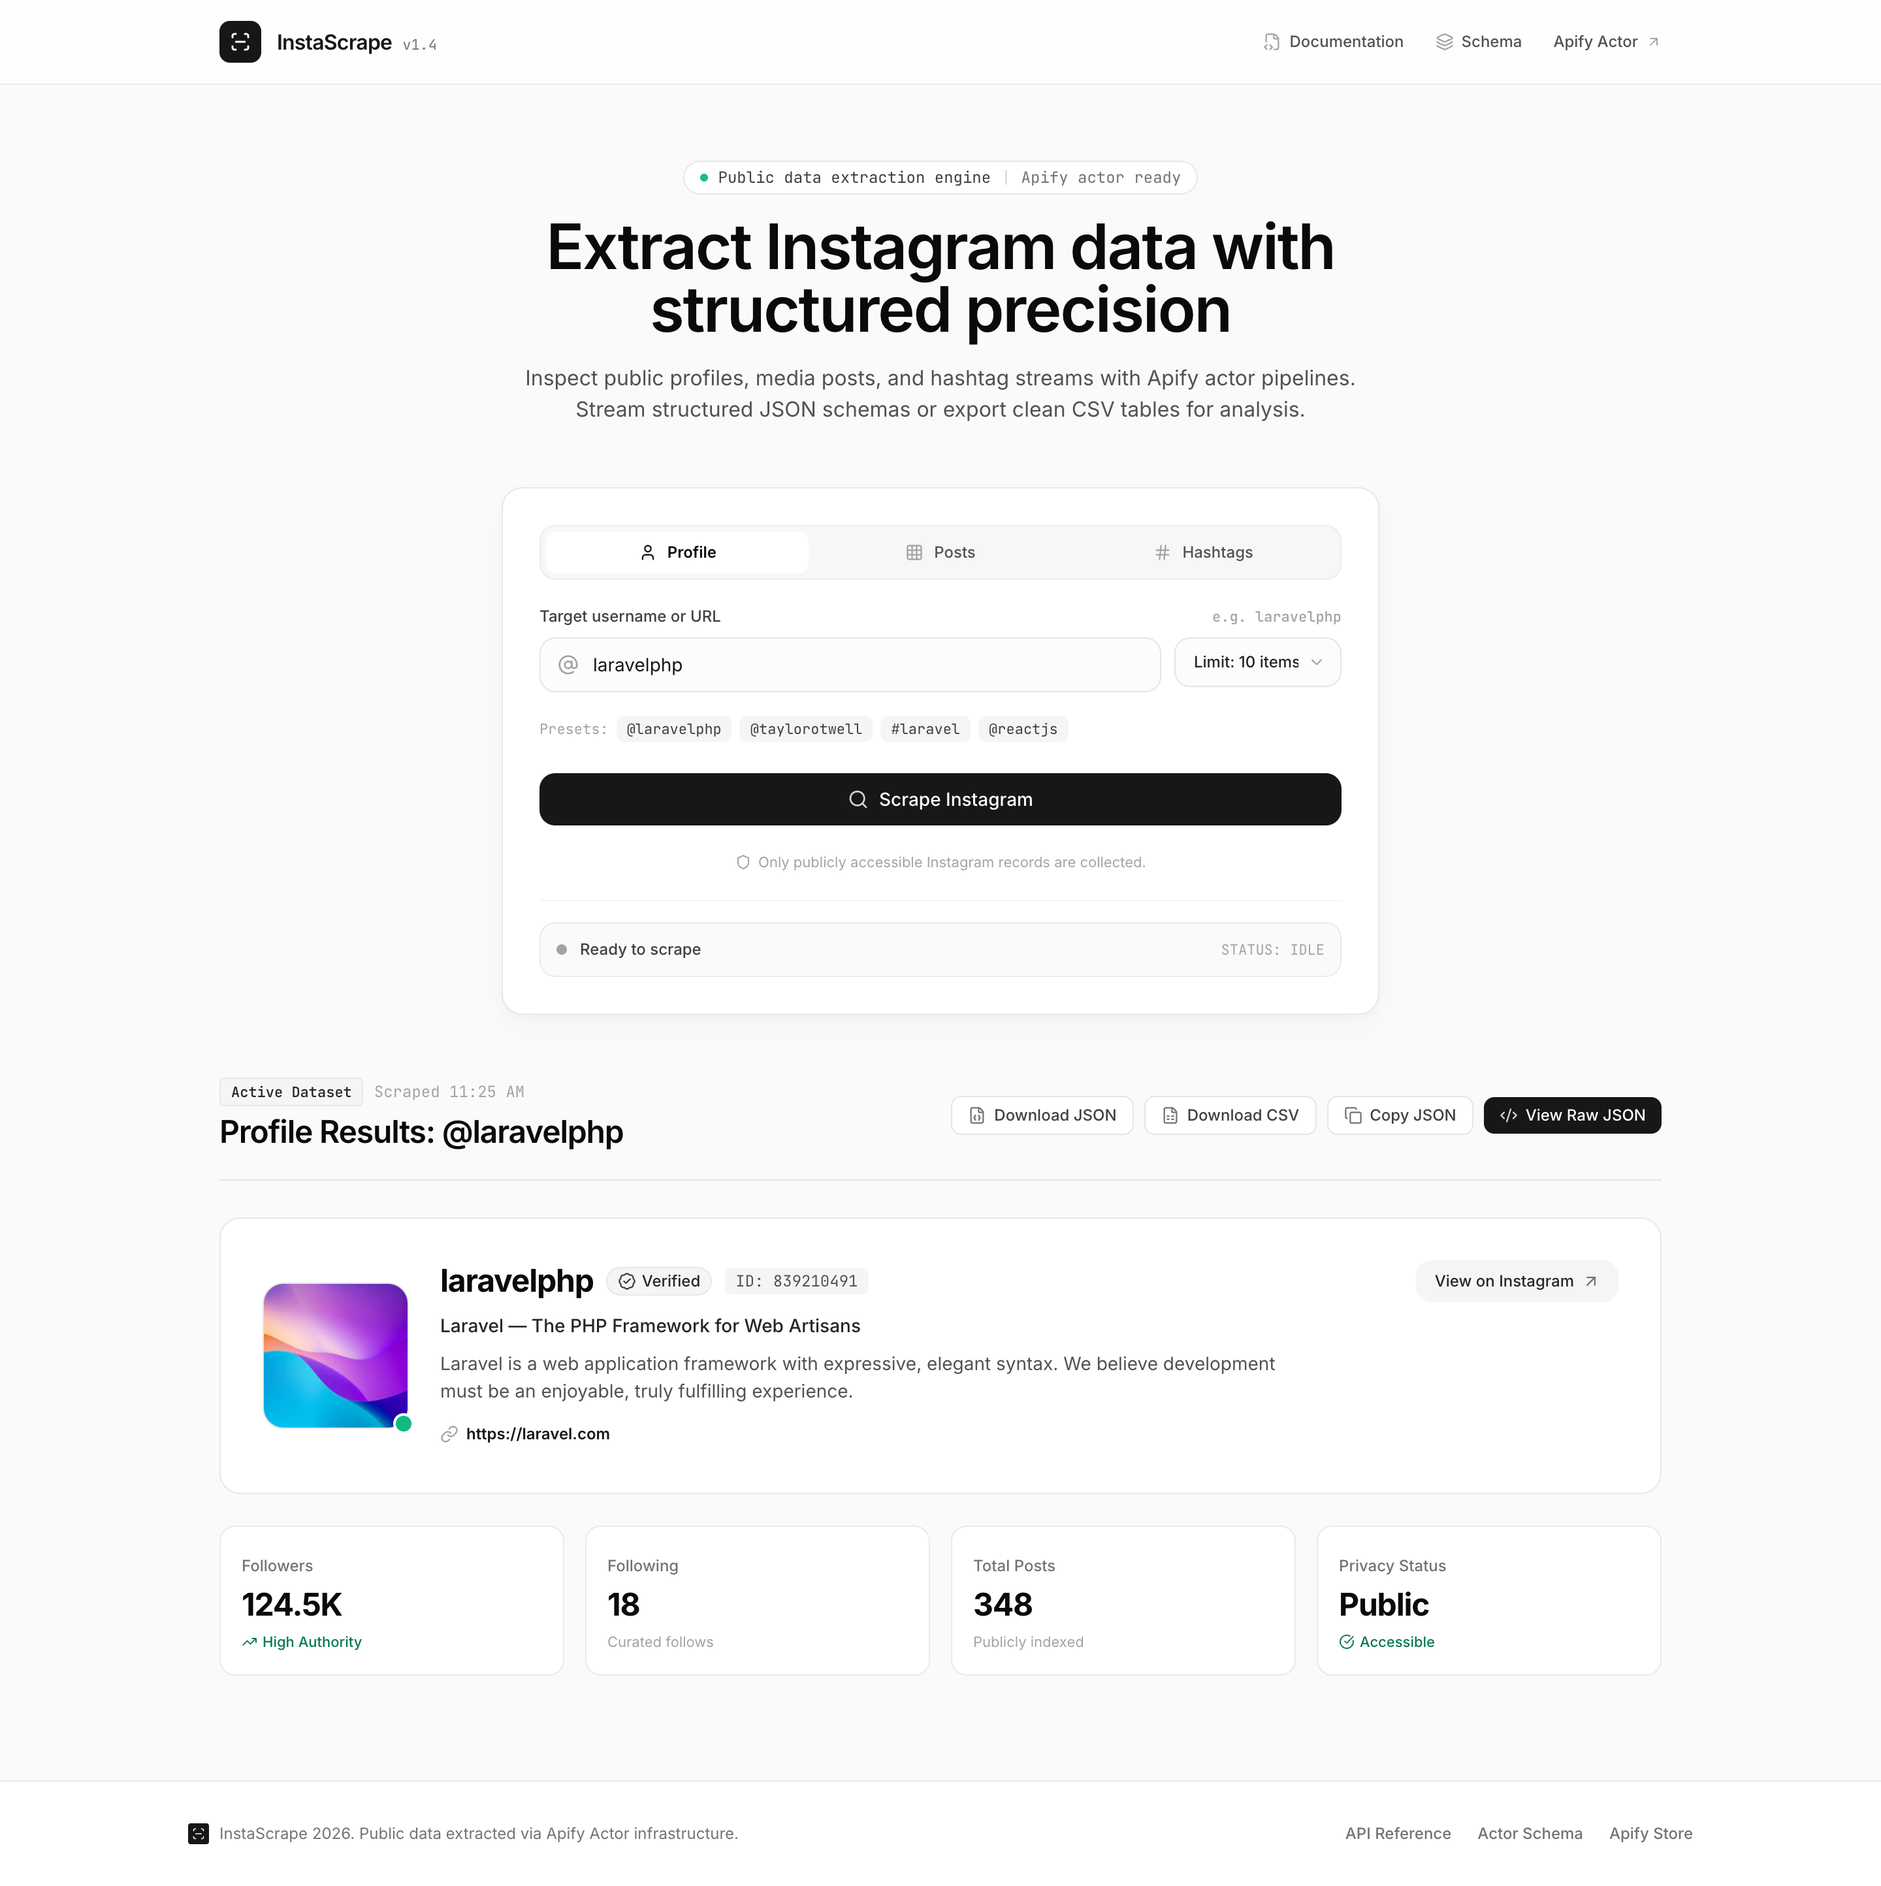
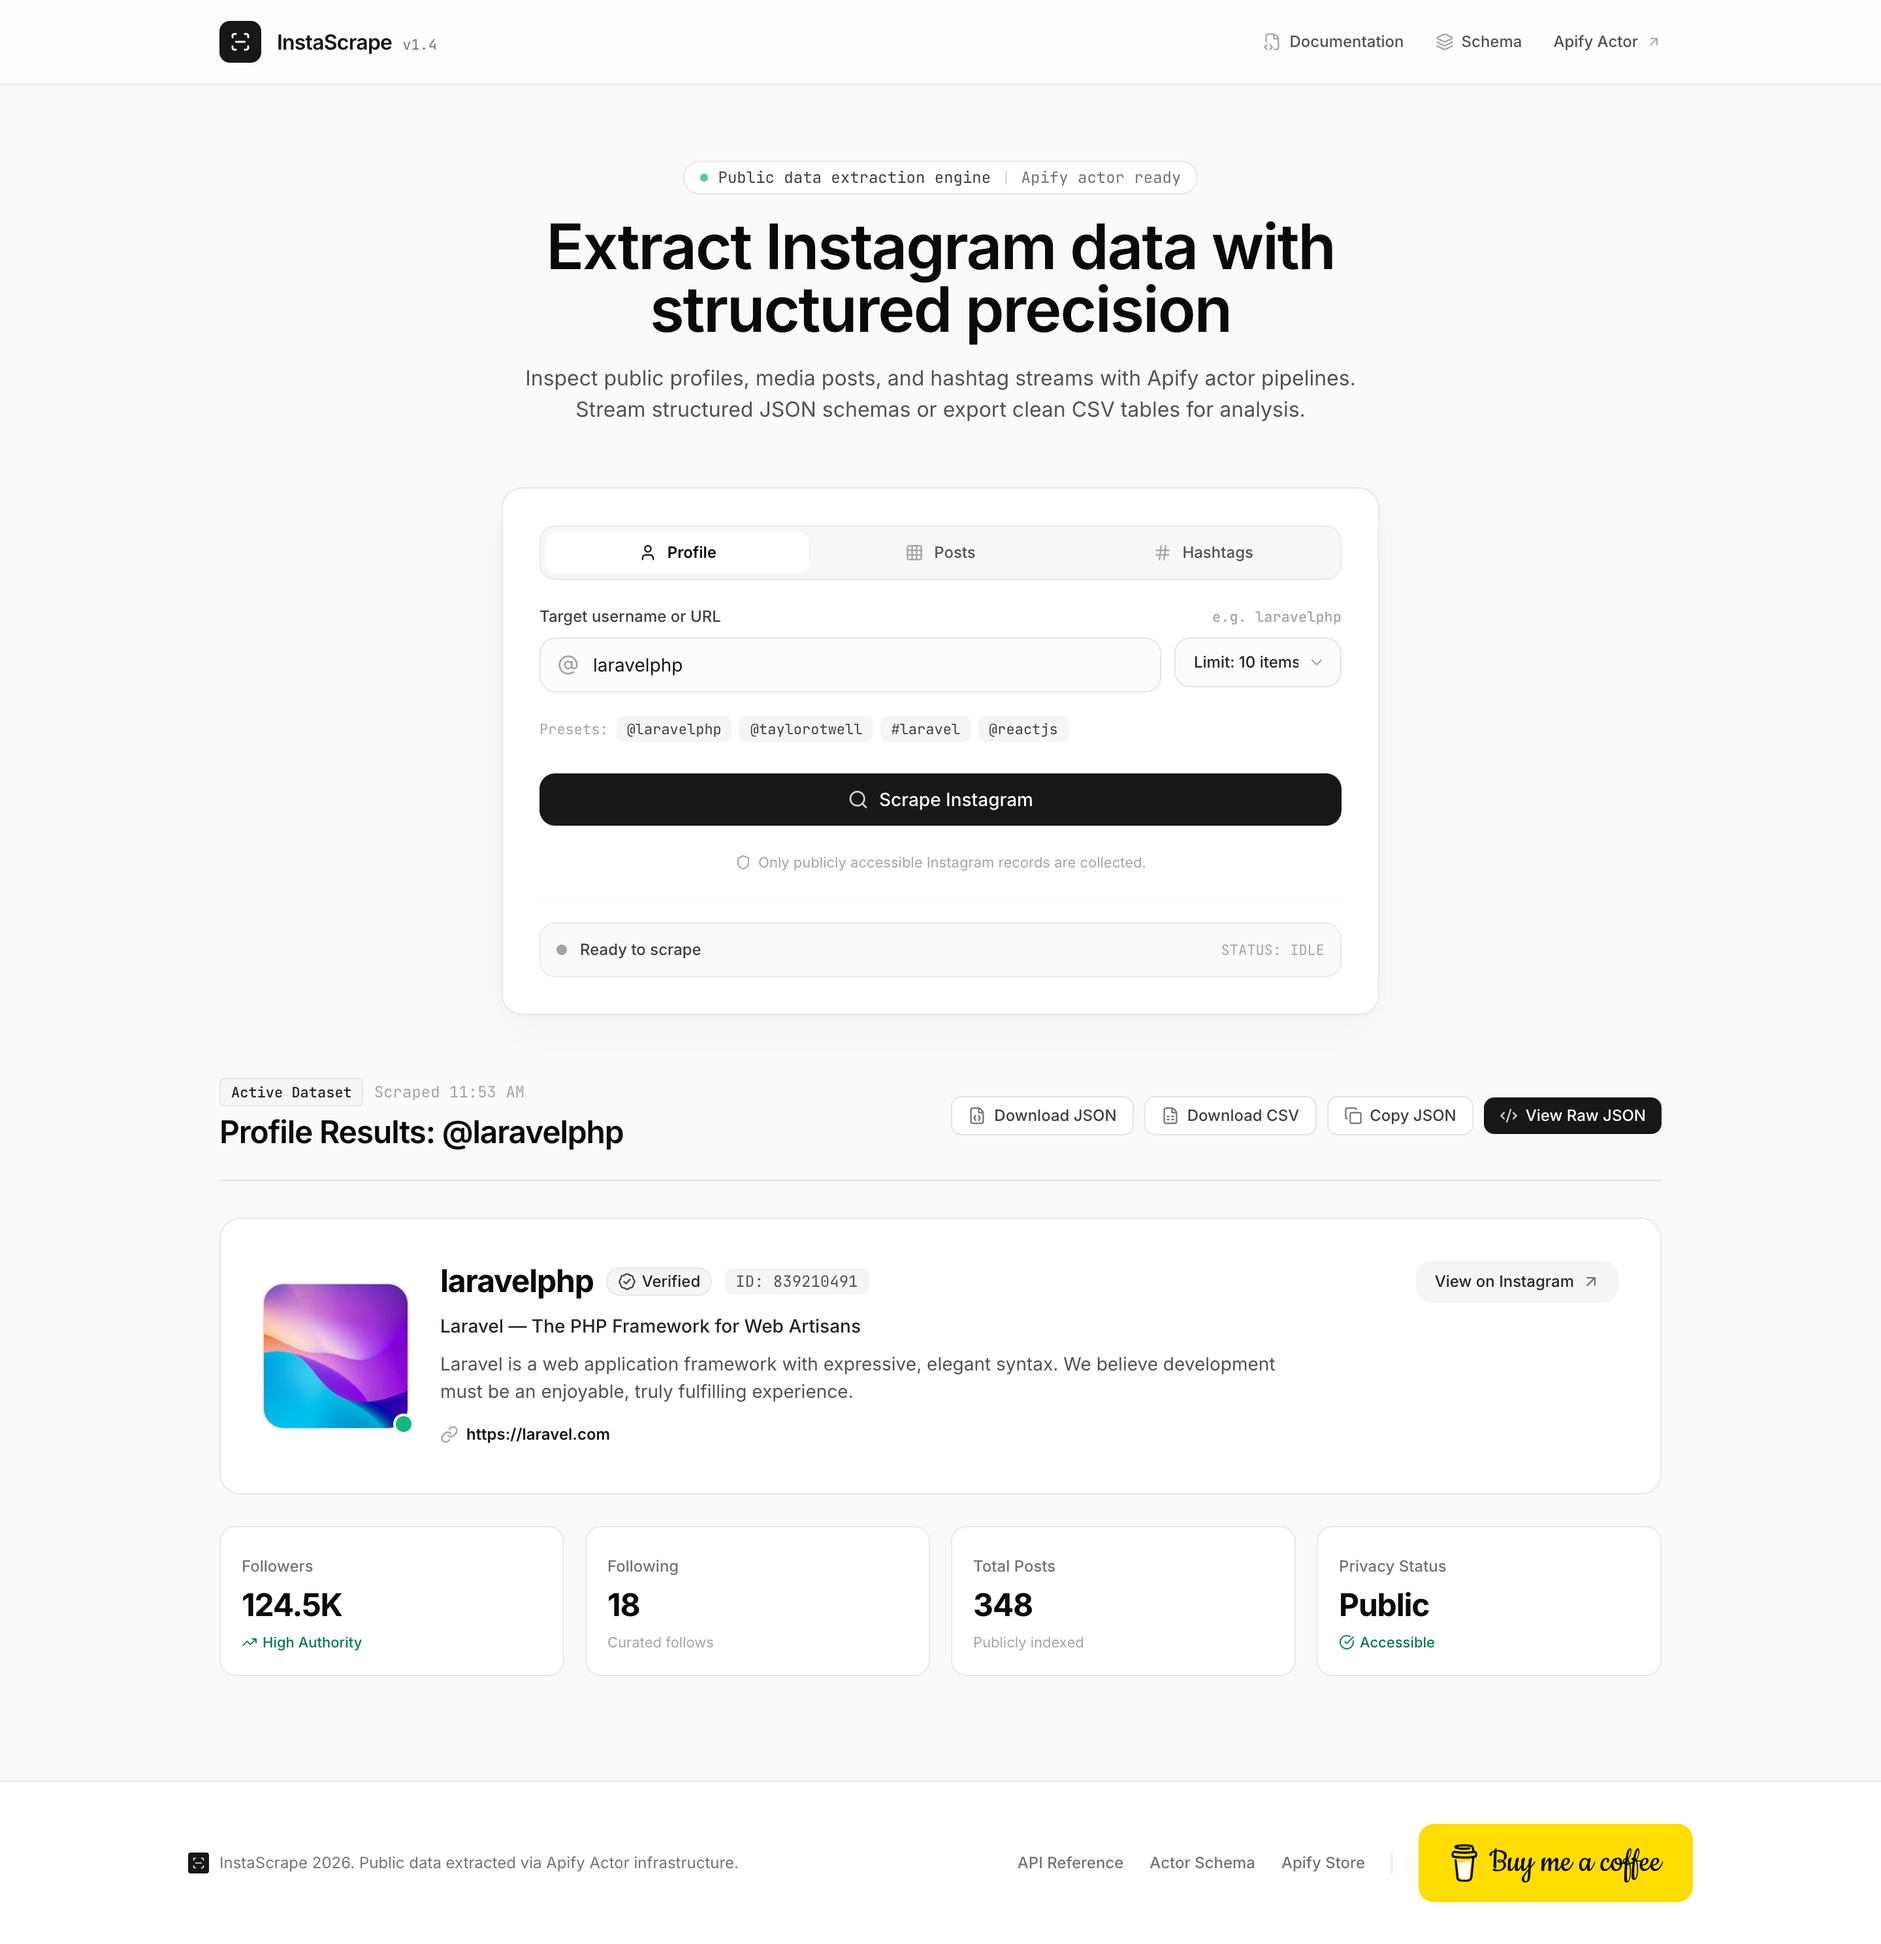
Enhance footer layout and add "Buy me a coffee" button for support

diff --git a/index.html b/index.html
@@ -697,10 +697,14 @@
         </div>
         <p>InstaScrape 2026. Public data extracted via Apify Actor infrastructure.</p>
       </div>
-      <div class="flex items-center gap-5 text-neutral-500 font-medium">
+      <div class="flex flex-wrap items-center justify-center gap-x-5 gap-y-3 text-neutral-500 font-medium">
         <a href="#docs" onclick="openModal('docs'); return false;" class="hover:text-neutral-900 transition">API Reference</a>
         <a href="#schema" onclick="openModal('about'); return false;" class="hover:text-neutral-900 transition">Actor Schema</a>
         <a href="https://apify.com/apify/instagram-scraper" target="_blank" rel="noopener noreferrer" class="hover:text-neutral-900 transition">Apify Store</a>
+        <span class="hidden sm:block h-4 w-px bg-neutral-200"></span>
+        <div class="shrink-0">
+          <script type="text/javascript" src="https://cdnjs.buymeacoffee.com/1.0.0/button.prod.min.js" data-name="bmc-button" data-slug="nuligiarsyani" data-color="#FFDD00" data-emoji="" data-font="Cookie" data-text="Buy me a coffee" data-outline-color="#000000" data-font-color="#000000" data-coffee-color="#ffffff"></script>
+        </div>
       </div>
     </div>
   </footer>

diff --git a/resources/views/scraper/index.blade.php b/resources/views/scraper/index.blade.php
@@ -698,10 +698,14 @@
         </div>
         <p>InstaScrape 2026. Public data extracted via Apify Actor infrastructure.</p>
       </div>
-      <div class="flex items-center gap-5 text-neutral-500 font-medium">
+      <div class="flex flex-wrap items-center justify-center gap-x-5 gap-y-3 text-neutral-500 font-medium">
         <a href="#docs" onclick="openModal('docs'); return false;" class="hover:text-neutral-900 transition">API Reference</a>
         <a href="#schema" onclick="openModal('about'); return false;" class="hover:text-neutral-900 transition">Actor Schema</a>
         <a href="https://apify.com/apify/instagram-scraper" target="_blank" rel="noopener noreferrer" class="hover:text-neutral-900 transition">Apify Store</a>
+        <span class="hidden sm:block h-4 w-px bg-neutral-200"></span>
+        <div class="shrink-0">
+          <script type="text/javascript" src="https://cdnjs.buymeacoffee.com/1.0.0/button.prod.min.js" data-name="bmc-button" data-slug="nuligiarsyani" data-color="#FFDD00" data-emoji="" data-font="Cookie" data-text="Buy me a coffee" data-outline-color="#000000" data-font-color="#000000" data-coffee-color="#ffffff"></script>
+        </div>
       </div>
     </div>
   </footer>
